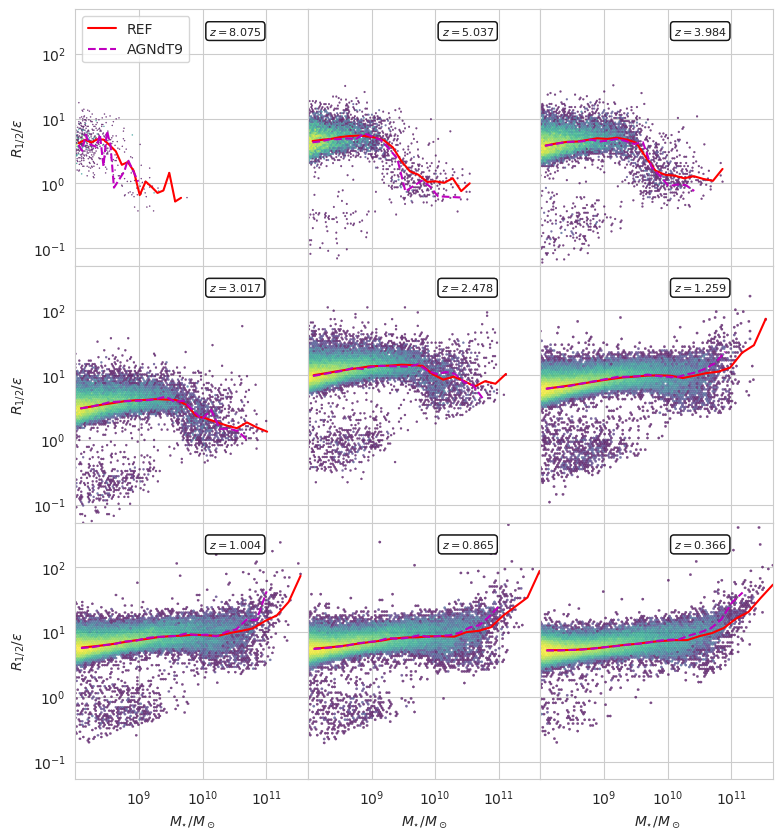
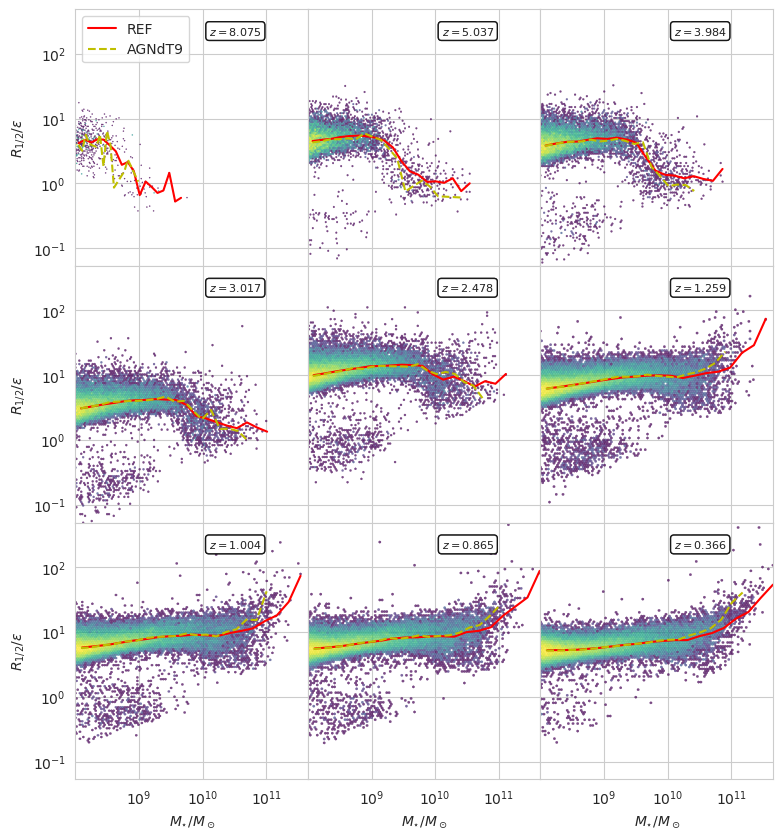
animation

diff --git a/subhalf_mass_scatter_allzsREF.py b/subhalf_mass_scatter_allzsREF.py
@@ -94,7 +94,7 @@ for ax, snap, (i, j) in zip([ax1, ax2, ax3, ax4, ax5, ax6, ax7, ax8, ax9], snaps
     # cbar = ax.hexbin(xs_plt, half_mass_rads_plt / (csoft / (1 + z)), gridsize=100, mincnt=1, xscale='log', yscale='log', norm=LogNorm(),
     #                  linewidths=0.2, cmap='viridis')  # uncomment to include softening
     cbar = ax.hexbin(xs_plt, half_mass_rads_plt / soft, gridsize=100, mincnt=1, xscale='log', yscale='log',
-                     norm=LogNorm(), linewidths=0.2, cmap='viridis', alpha=0.7)
+                     norm=LogNorm(), linewidths=0.2, cmap='viridis', alpha=0.5)
     plot_meidan_stat(xs_plt, half_mass_rads_plt / soft, ax, lab='REF', color='r')
 
     ax.text(0.8, 0.9, f'$z={z}$', bbox=dict(boxstyle="round,pad=0.3", fc='w', ec="k", lw=1, alpha=0.8),

diff --git a/birth_density_profile.py b/birth_density_profile.py
@@ -241,7 +241,7 @@ for ax, snap, (i, j) in zip([ax1, ax2, ax3, ax4, ax5, ax6, ax7, ax8, ax9], snaps
 
     # Label axes
     if i == 2:
-        ax.set_xlabel("$R$ / [pkpc]")
+        ax.set_xlabel("$R$ [pkpc]")
     if j == 0:
         ax.set_ylabel("Stellar Birth Density [$n_H$ cm$^{-3}$]")
 

diff --git a/birth_density_profile_REF.py b/birth_density_profile_REF.py
@@ -239,7 +239,7 @@ for ax, snap, (i, j) in zip([ax1, ax2, ax3, ax4, ax5, ax6, ax7, ax8, ax9], snaps
 
     # Label axes
     if i == 2:
-        ax.set_xlabel("$R$ / [pkpc]")
+        ax.set_xlabel("$R$ [pkpc]")
     if j == 0:
         ax.set_ylabel("Stellar Birth Density [$n_H$ cm$^{-3}$]")
 
